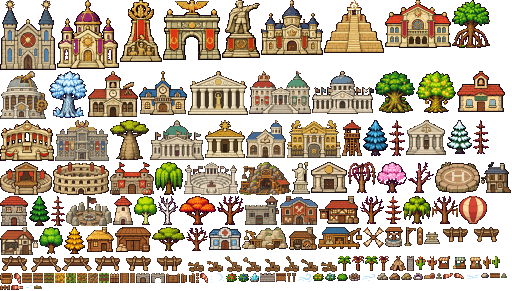
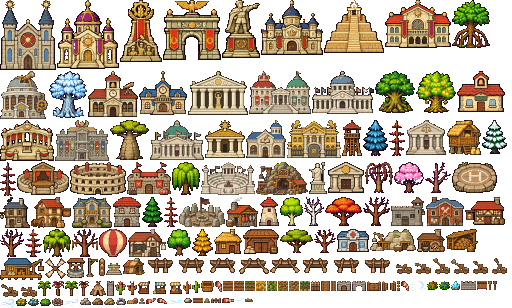
Partidos con nombres reales y siglas (también en los parlamentos), estaciones de 4 días (año de 16), sprites de la hoja 11

diff --git a/js/sociedad.js b/js/sociedad.js
@@ -1355,7 +1355,7 @@ function renderVillageCard(force){
   } else if (cardTab === 'politica') {
     const vr = n.voteRes;
     body = `<div>${govCard(g)}</div>
-      ${n.parties ? `<h4>Partidos</h4><div class="parties">${n.parties.map((q, k) => { const pct = vr && vr[k] != null ? vr[k] : null; return `<div class="party${n.ruling === k ? ' on' : ''}">${logoImg(q, 30)}<div class="pi"><b style="color:${q.col}">${esc(q.name)}${n.ruling === k ? ' <span class="gold">★ gobierna</span>' : ''}</b><span class="muted">${sideTxt(q)} · propone: ${q.laws.map(l => LAW_TXT[l]).join(', ')}</span>${pct != null ? `<span class="pv">${bar(pct / 100, q.col, 150)} ${pct} %</span>` : ''}</div></div>`; }).join('')}</div>` : '<h4>Partidos</h4><div>Aún no tienen partidos</div>'}
+      ${n.parties ? `<h4>Partidos</h4><div class="parties">${n.parties.map((q, k) => { const pct = vr && vr[k] != null ? vr[k] : null; return `<div class="party${n.ruling === k ? ' on' : ''}">${logoImg(q, 30)}<div class="pi"><b style="color:${q.col}">${esc(q.name)}</b> <span class="muted">(${esc(q.abbr || siglas(q.name))})</span><b>${n.ruling === k ? ' <span class="gold">★ gobierna</span>' : ''}</b><span class="muted">${sideTxt(q)} · propone: ${q.laws.map(l => LAW_TXT[l]).join(', ')}</span>${pct != null ? `<span class="pv">${bar(pct / 100, q.col, 150)} ${pct} %</span>` : ''}</div></div>`; }).join('')}</div>` : '<h4>Partidos</h4><div>Aún no tienen partidos</div>'}
       <h4>Leyes</h4><div class="laws">${lawsOf(g).map(l => `<div><b>${LAW_TXT[l]}</b><span class="muted">${LAW_DESC[l] || ''}</span></div>`).join('') || '<div class="muted">Sin leyes propias todavía</div>'}</div>
       ${(nationOf(g).lawHist || []).length ? `<h4>Historia de las leyes</h4><ul class="log">${nationOf(g).lawHist.slice().reverse().map(e => `<li class="pol"><span class="d">día ${e.d}</span>${esc(e.txt.replace(`En ${nationOf(g).name} `, ''))}</li>`).join('')}</ul>` : ''}
       ${colonyCard(g)}${justiceCard(g)}${pressCard(g)}${scienceCard(g)}${councilCard(g)}${spyCard(g)}${cultureCard(g)}
@@ -1975,10 +1975,22 @@ function warCard(g){
 // ---- Política: partidos inventados en cada sitio, de izquierdas a derechas, con sus leyes; cada cierto tiempo se
 // reúnen en la plaza y votan; el partido que gana pone al líder y sus leyes cambian cómo vive el pueblo y cómo trata
 // a los demás ----
-const PARTY_A = ['Partido', 'Unión', 'Frente', 'Movimiento', 'Liga', 'Alianza', 'Consejo', 'Hermandad', 'Asamblea'];
-const PARTY_B = { izq:['Socialista', 'Socialista del Trabajo', 'del Pueblo', 'de la Hoguera Común', 'de los Pastores', 'del Pan para Todos', 'Popular', 'de los Jornaleros', 'del Reparto'],
-  centro:['del Arado', 'del Río', 'de la Concordia', 'de las Cosechas', 'del Camino', 'Verde', 'de la Fe'],
-  der:['del Comercio', 'de la Espada', 'Libre', 'de los Linajes', 'del Orden', 'de la Corona de Piedra', 'de los Mercaderes'] };
+// Nombres de partido como los de la vida real, con sus siglas ({N}: el pueblo; {L}: la lengua de una minoría)
+const PARTY_NAMES = {
+  izq:['Partido Socialista de {N}', 'Partido Comunista de {N}', 'Partido Socialista Obrero', 'Izquierda Unida', 'Frente Popular', 'Partido de los Trabajadores', 'Unión de la Izquierda', 'Alianza Socialista', 'Movimiento Obrero de {N}', 'Partido del Pueblo Trabajador', 'Izquierda Republicana', 'Partido Comunista Revolucionario', 'Hermandad del Pan para Todos', 'Partido de la Hoguera Común'],
+  centro:['Partido Demócrata', 'Unión de Centro Democrático', 'Ciudadanos de {N}', 'Coalición Cívica', 'Centro Democrático y Social', 'Movimiento Ciudadano', 'Partido Moderado', 'Unión Progresista', 'Agrupación Independiente de {N}', 'Partido de la Concordia', 'Partido del Arado y el Río'],
+  der:['Partido Conservador', 'Partido Popular de {N}', 'Unión Nacional', 'Frente Nacional', 'Alianza Patriótica', 'Acción Nacional', 'Liga Conservadora', 'Partido de la Tradición', 'Partido de la Fe y el Orden', 'Movimiento Patriótico de {N}', 'Partido Agrario', 'Unión de los Mercaderes', 'Partido de la Corona de Piedra'],
+  verde:['Partido Verde', 'Alianza Ecologista', 'Movimiento Verde de {N}', 'Verdes Unidos', 'Partido Ecologista de {N}', 'Coalición por los Bosques'],
+  liberal:['Partido Liberal', 'Unión Liberal', 'Liberales de {N}', 'Partido Liberal Demócrata', 'Alianza Liberal', 'Partido Liberal Progresista'],
+  region:['Partido Regionalista {L}', 'Bloque {L}', 'Unión del Pueblo {L}', 'Coalición {L}', 'Partido Nacionalista {L}', 'Convergencia {L}', 'Frente {L}'],
+};
+const SIGLA_SKIP = new Set(['de', 'del', 'la', 'las', 'los', 'el', 'y', 'por']);
+const siglas = name => name.split(/\s+/).filter(w => w && !SIGLA_SKIP.has(w.toLowerCase())).map(w => w[0].toUpperCase()).join('');
+function partyName(kind, g, used, L){
+  const pool = PARTY_NAMES[kind].map(t => t.replace('{N}', g.name).replace('{L}', L || g.name)).filter(x => !used.has(x));
+  const name = pool[Math.floor(Math.random() * pool.length)] || `Partido de ${g.name}`; used.add(name);
+  return { name, abbr:siglas(name) };
+}
 const LAW_TXT = { aranceles:'aranceles', autonomia:'autonomía de las provincias', pensiones:'pensiones', fortificacion:'fortificación', derecho_huelga:'derecho a huelga', prohibir_huelgas:'prohibición de huelgas', lengua_unica:'una sola lengua', plurilinguismo:'todas las lenguas', reforma_lengua:'reforma de la lengua', pureza_lengua:'pureza de la lengua', reparto:'reparto de comida', obras:'obras públicas', paz:'paz con los vecinos', comercio:'comercio libre', ejercito:'ejército', expansion:'expansión', fe:'fe oficial', estatal:'economía estatal', censura:'censura',
   jornada_corta:'jornada corta', jornada_larga:'jornada larga', sanidad:'sanidad pública', educacion:'escuelas', impuestos_altos:'impuestos altos', impuestos_bajos:'impuestos bajos',
   bosques:'protección de los bosques', orden:'mano dura', natalidad:'más hijos', laicidad:'laicidad', salario_minimo:'salario mínimo', fronteras_abiertas:'fronteras abiertas', fronteras_cerradas:'fronteras cerradas', cuarentena:'cuarentena', vivienda_publica:'vivienda pública', mercado_vivienda:'libre mercado de la vivienda', tope_alquiler:'tope a los alquileres', libertad_religiosa:'libertad de culto', persecucion_religiosa:'persecución religiosa', derechos_humanos:'derechos humanos', segregacion:'segregación racial', matrimonio_igualitario:'matrimonio igualitario', persecucion:'persecución de homosexuales' };
@@ -2003,20 +2015,20 @@ function partyProgram(ideo, n = 3 + (Math.random() < .5 ? 1 : 0), keep = []){
 }
 // En los parlamentos hay más partidos: verdes, liberales y, donde se hablan varias lenguas, uno regionalista
 function moreParties(g){
-  const ps = g.parties ||= [], has = re => ps.some(p => re.test(p.name));
-  if (!has(/Verde/)) ps.push({ name:'Partido Verde', ideo:-.3, laws:partyProgram(-.3, 3, ['bosques']), col:'#5aa84a' });
-  if (!has(/Liberal/)) ps.push({ name:'Partido Liberal', ideo:.2, laws:partyProgram(.2, 3, ['comercio']), col:'#e8c040' });
-  const langs = new Set(villages.filter(o => popOf(o) && nationOf(o) === g).map(o => o.lang).filter(l => l != null));
-  if (langs.size > 1 && !has(/Regionalista/)) ps.push({ name:'Partido Regionalista', ideo:-.05, laws:partyProgram(-.05, 3, ['plurilinguismo']), col:'#8a5ac8' });
+  const ps = g.parties ||= [], has = k => ps.some(p => p.kind === k || (k === 'verde' && /Verde|Ecolog/.test(p.name)) || (k === 'liberal' && /Liberal/.test(p.name)) || (k === 'region' && /Regional/.test(p.name))), used = new Set(villages.flatMap(o => (o.parties || []).map(p => p.name)));
+  if (!has('verde')) ps.push({ ...partyName('verde', g, used), kind:'verde', ideo:-.3, laws:partyProgram(-.3, 3, ['bosques']), col:'#5aa84a' });
+  if (!has('liberal')) ps.push({ ...partyName('liberal', g, used), kind:'liberal', ideo:.2, laws:partyProgram(.2, 3, ['comercio']), col:'#e8c040' });
+  const langs = [...new Set(villages.filter(o => popOf(o) && nationOf(o) === g).map(o => o.lang).filter(l => l != null && l !== g.lang))];
+  if (langs.length && !has('region')) { const L = langList()[langs[0]]; ps.push({ ...partyName('region', g, used, L ? capFirst(L.adj) : null), kind:'region', ideo:-.05, laws:partyProgram(-.05, 3, ['plurilinguismo']), col:'#8a5ac8' }); }
   while (ps.length > 6) ps.splice(ps.findIndex((p, k) => k !== g.ruling), 1);
 }
 function makeParties(g){
   const parties = [], used = new Set();
   for (const side of Math.random() < .5 ? ['izq', 'centro', 'der'] : ['izq', 'der']) {
-    let name; do name = `${PARTY_A[Math.floor(Math.random() * PARTY_A.length)]} ${PARTY_B[side][Math.floor(Math.random() * PARTY_B[side].length)]}`; while (used.has(name)); used.add(name);
+    const { name, abbr } = partyName(side, g, used); // nombres como los de verdad, con siglas
     const ideo = side === 'izq' ? -.4 - Math.random() * .45 : side === 'der' ? .4 + Math.random() * .45 : (Math.random() - .5) * .3;
     const laws = partyProgram(ideo, undefined, name.includes('Fe') ? ['fe'] : []);
-    parties.push({ name, ideo, laws, col:side === 'izq' ? '#d8483a' : side === 'der' ? '#3a6ab8' : '#e8b848' });
+    parties.push({ name, abbr, kind:side, ideo, laws, col:side === 'izq' ? '#d8483a' : side === 'der' ? '#3a6ab8' : '#e8b848' });
   }
   g.parties = parties;
   if (!g.regime) { // la primera forma de gobierno depende de cómo les va: quien manda, cuánto temen a sus dioses, si hay peligro...
@@ -2034,7 +2046,7 @@ function makeParties(g){
   if (!g.flag) { g.flag = makeFlag(g); g.flagUrl = flagDataUrl(g.flag); notify(`${g.name} se da a sí misma una bandera`, { x:g.fx * T, y:g.fy * T }); }
   notify(`En ${g.name} nacen los partidos: ${parties.map(p => p.name).join(', ')}`, { x:g.fx * T, y:g.fy * T });
 }
-const artP = p => /^(Unión|Liga|Alianza|Asamblea|Hermandad)/.test(p.name) ? 'la' : 'el'; // «gana la Liga…», «gana el Frente…»
+const artP = p => /^(Ciudadanos|Verdes|Liberales)/.test(p.name) ? 'los' : /^(Unión|Liga|Alianza|Asamblea|Hermandad|Izquierda|Coalición|Acción|Agrupación|Convergencia)/.test(p.name) ? 'la' : 'el'; // «gana la Liga…», «gana el Frente…»
 const lawsOf = g => { const n = nationOf(g); if (REGIME_LAWS[n.regime]) return REGIME_LAWS[n.regime]; let L = n.ruling != null && n.parties && n.parties[n.ruling] ? n.parties[n.ruling].laws : [];
   const C = n.coalition != null && n.parties && n.parties[n.coalition]; if (C) L = [...L, ...C.laws.filter(l => !L.includes(l) && !LAW_CLASH.some(([a, b]) => (l === a && L.includes(b)) || (l === b && L.includes(a))))];
   return n.regime === 'socialismo' ? [...new Set(['reparto', 'estatal', 'vivienda_publica', ...L.filter(l => l !== 'mercado_vivienda')])] : L; };

diff --git a/js/arte_mapa.js b/js/arte_mapa.js
@@ -1,2 +1,2 @@
 // Forja de Mundos · Mapa del atlas de arte (generado: no editar a mano). clave: [x, y, ancho, alto, ancla x, llamas?]
-const ART_MAP = {"house:hut":[86,227,28,25,14],"house:piedra":[0,196,28,30,14],"well:pozo":[385,227,18,20,9],"store:almacen":[115,227,36,25,18],"tower:torre":[342,120,20,36,10],"hall:ayuntamiento":[139,71,48,44,24],"market:mercado":[438,256,44,13,22],"bank:banco":[311,162,36,31,18],"hospital:hospital":[209,227,32,23,16],"school:escuela":[457,71,48,41,24],"tavern:taberna":[319,196,40,28,20],"theater:teatro":[0,162,52,33,26],"coliseum:coliseo":[53,162,56,33,28],"barracks:cuartel":[110,162,44,33,22],"tradehall:lonja":[318,227,44,22,22],"quarry:cantera":[242,227,46,23,23],"temple:templo":[205,120,40,38,20],"obelisk:monumento":[292,162,18,32,9],"cathedral:catedral":[0,0,56,70,28],"cathedral:panteon":[188,71,60,44,30],"wonder:republica":[0,120,54,41,27],"wonder:monarquia":[261,0,62,55,31],"wonder:dictadura":[222,0,38,58,19],"wonder:comunismo":[120,0,42,62,21],"wonder:fascismo":[163,0,58,60,29],"wonder:socialismo":[385,0,66,48,33],"wonder:teocracia":[57,0,62,69,31],"altar:altar":[424,227,16,17,8,[5,0,6,6]],"cathedral:zigurat":[324,0,60,53,30,[24,1,12,13]],"forge:herreria":[289,227,28,23,14,[14,17,9,3]],"mill:molino":[113,196,20,29,10],"mill:aspas":[363,227,21,21,10],"oak:forest":[39,227,24,27,12],"oak:forest:bare":[360,196,24,28,12],"pine:pine":[29,196,21,30,10],"pine:pine:bare":[51,196,14,30,7],"pine:snow":[447,120,25,34,12],"pine:snow:bare":[473,120,16,34,8],"acacia:dry":[152,227,33,24,16],"acacia:dry:bare":[186,227,22,24,11],"birch:birch":[134,196,23,29,11],"birch:birch:bare":[158,196,20,29,10],"pine:blue":[363,120,25,36,12],"pine:blue:bare":[389,120,16,36,8],"willow:swamp":[155,162,28,33,14],"willow:swamp:bare":[348,162,28,31,14],"palm:palm":[338,256,13,15,6],"palm:palm:bare":[352,256,12,15,6],"palm:coco":[365,256,13,15,6],"palm:coco:bare":[379,256,10,15,5],"oak:cherry":[377,162,30,31,15],"oak:cherry:bare":[408,162,26,31,13],"pine:autumn":[64,227,21,27,10],"pine:autumn:bare":[385,196,17,28,8],"acacia:sunset":[179,196,37,29,18],"acacia:sunset:bare":[217,196,27,29,13],"willow:moss":[403,196,28,28,14],"willow:moss:bare":[432,196,26,28,13],"cactus:cactus":[492,256,8,12,4],"cactus:cactus:bare":[483,256,8,13,4],"cactus:bloom":[415,256,11,14,5],"cactus:bloom:bare":[427,256,10,14,5],"ancient:elder":[375,71,40,42,20],"ancient:frost":[49,71,38,47,19],"ancient:baobab":[110,120,39,40,19],"ancient:mangrove":[452,0,38,48,19],"ancient:life":[416,71,40,42,20],"bush:red":[226,273,11,9,5],"bush:blueb":[238,273,11,9,5],"bush:goldb":[313,273,11,8,5],"bush:moon":[325,273,11,8,5],"bush:empty":[337,273,11,8,5],"rock:stone":[481,273,8,5,4],"big:stone":[377,273,11,7,5],"ore:iron":[389,273,11,7,5],"ore:gold":[401,273,11,7,5],"gem:amethyst":[413,273,10,7,5],"gem:mana":[250,273,9,9,4],"fire:camp":[349,273,11,8,5],"camp:tienda":[390,256,16,15,8],"camp:estera":[424,273,11,6,5],"boat:0":[441,227,30,16,15],"boat:1":[472,227,30,16,15],"boat:2":[0,256,30,16,15],"boat:3":[31,256,30,16,15],"boat:4":[62,256,30,16,15],"boat:5":[93,256,30,16,15],"boat:6":[124,256,30,16,15],"boat:7":[155,256,30,16,15],"catapult:0":[186,256,18,16,9],"catapult:1":[205,256,18,16,9],"catapult:2":[224,256,18,16,9],"catapult:3":[243,256,18,16,9],"catapult:4":[262,256,18,16,9],"catapult:5":[281,256,18,16,9],"catapult:6":[300,256,18,16,9],"catapult:7":[319,256,18,16,9],"tex:arada":[22,273,10,10,5],"tex:sembrado":[33,273,10,10,5],"tex:brotes":[44,273,10,10,5],"tex:trigo":[55,273,10,10,5],"tex:maiz":[66,273,10,10,5],"tex:mijo":[77,273,10,10,5],"tex:muerta":[88,273,10,10,5],"tex:huerta":[99,273,10,10,5],"tex:empalizada_h":[110,273,9,10,4],"tex:empalizada_v":[417,227,6,18,3],"tex:piedra_h":[260,273,15,9,7],"tex:piedra_v":[407,256,7,15,3],"tex:puente_h":[276,273,10,9,5],"tex:puente_v":[120,273,9,10,4],"tex:puente_h5":[490,273,10,5,5],"tex:puente_v5":[130,273,5,10,2],"gate:piedra":[136,273,14,10,7],"gate:piedra_abierta":[151,273,14,10,7],"gate:madera":[166,273,14,10,7],"gate:madera_abierta":[181,273,14,10,7],"tumba:lapida":[501,273,6,5,3],"tumba:flores":[34,285,8,4,4],"tumba:estela":[436,273,6,6,3],"tex:valla_h":[0,285,10,5,5],"tex:valla_v":[196,273,3,10,1],"antorcha:encendida":[287,273,4,9,2],"antorcha:apagada":[292,273,4,9,2],"balloon:globo":[459,196,28,28,14],"balloon:cesta":[0,273,13,11,6],"aero:pista":[435,162,45,31,22],"aero:palo":[404,227,12,19,2],"sock:0":[11,285,12,5,0],"sock:1":[443,273,10,6,0],"sock:2":[454,273,10,6,0],"sock:3":[200,273,8,10,0],"sock:4":[14,273,7,11,0],"wind:0":[24,285,9,5,4],"wind:1":[465,273,15,6,7],"wind:2":[361,273,15,8,7],"wind:3":[297,273,15,9,7],"wind:4":[209,273,16,10,8],"court:tribunal":[406,120,40,35,20],"jail:carcel":[245,196,34,29,17],"press:imprenta":[0,227,38,28,19],"union:sindicato":[280,196,38,29,19],"parliament:parlamento":[150,120,54,40,27],"academy:academia":[246,120,40,38,20],"wonder:democracia":[184,162,54,33,27],"wonder:partitocracia":[55,120,54,41,27],"wonder:monarquia_parlamentaria":[249,71,62,43,31],"wonder:oligarquia":[287,120,54,38,27],"wonder:tecnocracia":[0,71,48,48,24],"wonder:anarquia":[66,196,46,30,23],"mine:mina":[239,162,52,33,26],"university:universidad":[88,71,50,46,25],"council:consejo":[312,71,62,43,31],"spy:espias":[481,162,30,31,15]};
+const ART_MAP = {"house:hut":[214,229,28,25,14],"house:piedra":[113,197,28,30,14],"well:pozo":[67,258,18,20,9],"store:almacen":[243,229,36,25,18],"tower:torre":[342,120,20,36,10],"hall:ayuntamiento":[139,71,48,44,24],"market:mercado":[138,281,44,13,22],"bank:banco":[328,162,36,31,18],"hospital:hospital":[337,229,32,23,16],"school:escuela":[457,71,48,41,24],"tavern:taberna":[465,197,40,28,20],"theater:teatro":[17,162,52,33,26],"coliseum:coliseo":[70,162,56,33,28],"barracks:cuartel":[127,162,44,33,22],"tradehall:lonja":[0,258,44,22,22],"quarry:cantera":[370,229,46,23,23],"temple:templo":[205,120,40,38,20],"obelisk:monumento":[309,162,18,32,9],"cathedral:catedral":[0,0,56,70,28],"cathedral:panteon":[188,71,60,44,30],"wonder:republica":[0,120,54,41,27],"wonder:monarquia":[261,0,62,55,31],"wonder:dictadura":[222,0,38,58,19],"wonder:comunismo":[120,0,42,62,21],"wonder:fascismo":[163,0,58,60,29],"wonder:socialismo":[385,0,66,48,33],"wonder:teocracia":[57,0,62,69,31],"altar:altar":[106,258,16,17,8,[5,0,6,6]],"cathedral:zigurat":[324,0,60,53,30,[24,1,12,13]],"forge:herreria":[417,229,28,23,14,[14,17,9,3]],"mill:molino":[259,197,20,29,10],"mill:aspas":[45,258,21,21,10],"oak:forest":[167,229,24,27,12],"oak:forest:bare":[0,229,24,28,12],"pine:pine":[142,197,21,30,10],"pine:pine:bare":[164,197,14,30,7],"pine:snow":[482,120,25,34,12],"pine:snow:bare":[0,162,16,34,8],"acacia:dry":[280,229,33,24,16],"acacia:dry:bare":[314,229,22,24,11],"birch:birch":[280,197,23,29,11],"birch:birch:bare":[304,197,20,29,10],"pine:blue":[363,120,25,36,12],"pine:blue:bare":[389,120,16,36,8],"willow:swamp":[172,162,28,33,14],"willow:swamp:bare":[365,162,28,31,14],"palm:palm":[38,281,13,15,6],"palm:palm:bare":[52,281,12,15,6],"palm:coco":[65,281,13,15,6],"palm:coco:bare":[79,281,10,15,5],"oak:cherry":[394,162,30,31,15],"oak:cherry:bare":[425,162,26,31,13],"pine:autumn":[192,229,21,27,10],"pine:autumn:bare":[25,229,17,28,8],"acacia:sunset":[325,197,37,29,18],"acacia:sunset:bare":[363,197,27,29,13],"willow:moss":[43,229,28,28,14],"willow:moss:bare":[72,229,26,28,13],"cactus:cactus":[192,281,8,12,4],"cactus:cactus:bare":[183,281,8,13,4],"cactus:bloom":[115,281,11,14,5],"cactus:bloom:bare":[127,281,10,14,5],"ancient:elder":[375,71,40,42,20],"ancient:frost":[49,71,38,47,19],"ancient:baobab":[110,120,39,40,19],"ancient:mangrove":[452,0,38,48,19],"ancient:life":[416,71,40,42,20],"bush:red":[427,281,11,9,5],"bush:blueb":[439,281,11,9,5],"bush:goldb":[16,298,11,8,5],"bush:moon":[28,298,11,8,5],"bush:empty":[40,298,11,8,5],"rock:stone":[184,298,8,5,4],"big:stone":[80,298,11,7,5],"ore:iron":[92,298,11,7,5],"ore:gold":[104,298,11,7,5],"gem:amethyst":[116,298,10,7,5],"gem:mana":[451,281,9,9,4],"fire:camp":[52,298,11,8,5],"camp:tienda":[90,281,16,15,8],"camp:estera":[127,298,11,6,5],"boat:0":[146,258,30,16,15],"boat:1":[177,258,30,16,15],"boat:2":[208,258,30,16,15],"boat:3":[239,258,30,16,15],"boat:4":[270,258,30,16,15],"boat:5":[301,258,30,16,15],"boat:6":[332,258,30,16,15],"boat:7":[363,258,30,16,15],"catapult:0":[394,258,18,16,9],"catapult:1":[413,258,18,16,9],"catapult:2":[432,258,18,16,9],"catapult:3":[451,258,18,16,9],"catapult:4":[470,258,18,16,9],"catapult:5":[489,258,18,16,9],"catapult:6":[0,281,18,16,9],"catapult:7":[19,281,18,16,9],"tex:arada":[223,281,10,10,5],"tex:sembrado":[234,281,10,10,5],"tex:brotes":[245,281,10,10,5],"tex:trigo":[256,281,10,10,5],"tex:maiz":[267,281,10,10,5],"tex:mijo":[278,281,10,10,5],"tex:muerta":[289,281,10,10,5],"tex:huerta":[300,281,10,10,5],"tex:empalizada_h":[311,281,9,10,4],"tex:empalizada_v":[99,258,6,18,3],"tex:piedra_h":[461,281,15,9,7],"tex:piedra_v":[107,281,7,15,3],"tex:puente_h":[477,281,10,9,5],"tex:puente_v":[321,281,9,10,4],"tex:puente_h5":[193,298,10,5,5],"tex:puente_v5":[331,281,5,10,2],"gate:piedra":[337,281,14,10,7],"gate:piedra_abierta":[352,281,14,10,7],"gate:madera":[367,281,14,10,7],"gate:madera_abierta":[382,281,14,10,7],"tumba:lapida":[204,298,6,5,3],"tumba:flores":[245,298,8,4,4],"tumba:estela":[139,298,6,6,3],"tex:valla_h":[211,298,10,5,5],"tex:valla_v":[397,281,3,10,1],"antorcha:encendida":[488,281,4,9,2],"antorcha:apagada":[493,281,4,9,2],"balloon:globo":[99,229,28,28,14],"balloon:cesta":[201,281,13,11,6],"aero:pista":[452,162,45,31,22],"aero:palo":[86,258,12,19,2],"sock:0":[222,298,12,5,0],"sock:1":[146,298,10,6,0],"sock:2":[157,298,10,6,0],"sock:3":[401,281,8,10,0],"sock:4":[215,281,7,11,0],"wind:0":[235,298,9,5,4],"wind:1":[168,298,15,6,7],"wind:2":[64,298,15,8,7],"wind:3":[0,298,15,9,7],"wind:4":[410,281,16,10,8],"court:tribunal":[406,120,40,35,20],"jail:carcel":[391,197,34,29,17],"press:imprenta":[128,229,38,28,19],"union:sindicato":[426,197,38,29,19],"parliament:parlamento":[150,120,54,40,27],"academy:academia":[246,120,40,38,20],"wonder:democracia":[201,162,54,33,27],"wonder:partitocracia":[55,120,54,41,27],"wonder:monarquia_parlamentaria":[249,71,62,43,31],"wonder:oligarquia":[287,120,54,38,27],"wonder:tecnocracia":[0,71,48,48,24],"wonder:anarquia":[179,197,46,30,23],"mine:mina":[256,162,52,33,26],"university:universidad":[88,71,50,46,25],"council:consejo":[312,71,62,43,31],"spy:espias":[0,197,30,31,15],"granary:granero":[447,120,34,35,17],"smoke:ahumadero":[226,197,32,30,16],"woodshed:lenera":[446,229,32,23,16],"post:postas":[31,197,40,31,20],"house:mansion":[72,197,40,31,20],"house:chabola":[123,258,22,17,11]};

diff --git a/index.html b/index.html
@@ -6,7 +6,7 @@
 <meta name="claude:viewport-fit-sides" content="cover">
 <link rel="preconnect" href="https://fonts.googleapis.com">
 <link rel="stylesheet" href="https://fonts.googleapis.com/css2?family=Pixelify+Sans:wght@400;600&family=Nunito+Sans:wght@400;600;700&display=swap">
-<link rel="stylesheet" href="css/estilo.css?v=202611231548">
+<link rel="stylesheet" href="css/estilo.css?v=202611231554">
 
 <div class="app">
   <section class="stage" id="stage">
@@ -162,52 +162,52 @@
 </div>
 
 <!-- El juego, en el orden en que se carga -->
-<script src="js/nucleo.js?v=202611231548"></script>
-<script src="js/mundo.js?v=202611231548"></script>
-<script src="js/vista.js?v=202611231548"></script>
-<script src="js/clima.js?v=202611231548"></script>
-<script src="js/fauna.js?v=202611231548"></script>
-<script src="js/desastres.js?v=202611231548"></script>
-<script src="js/mapas.js?v=202611231548"></script>
-<script src="js/humanos.js?v=202611231548"></script>
-<script src="js/partidas.js?v=202611231548"></script>
-<script src="js/vida.js?v=202611231548"></script>
-<script src="js/sociedad.js?v=202611231548"></script>
-<script src="js/impuestos.js?v=202611231548"></script>
-<script src="js/presupuestos.js?v=202611231548"></script>
-<script src="js/bolsa.js?v=202611231548"></script>
-<script src="js/vivienda.js?v=202611231548"></script>
-<script src="js/cartografia.js?v=202611231548"></script>
-<script src="js/convivencia.js?v=202611231548"></script>
-<script src="js/credos.js?v=202611231548"></script>
-<script src="js/tratados.js?v=202611231548"></script>
-<script src="js/globos.js?v=202611231548"></script>
-<script src="js/idiomas.js?v=202611231548"></script>
-<script src="js/regimenes.js?v=202611231548"></script>
-<script src="js/instituciones.js?v=202611231548"></script>
-<script src="js/monedas.js?v=202611231548"></script>
-<script src="js/minas.js?v=202611231548"></script>
-<script src="js/justicia.js?v=202611231548"></script>
-<script src="js/sindicatos.js?v=202611231548"></script>
-<script src="js/prensa.js?v=202611231548"></script>
-<script src="js/ciencia.js?v=202611231548"></script>
-<script src="js/consejo.js?v=202611231548"></script>
-<script src="js/espionaje.js?v=202611231548"></script>
-<script src="js/comercio.js?v=202611231548"></script>
-<script src="js/piratas.js?v=202611231548"></script>
-<script src="js/colonias.js?v=202611231548"></script>
-<script src="js/cultura.js?v=202611231548"></script>
-<script src="js/anexiones.js?v=202611231548"></script>
-<script src="js/lluvia.js?v=202611231548"></script>
-<script src="js/estaciones.js?v=202611231548"></script>
-<script src="js/bandidos.js?v=202611231548"></script>
-<script src="js/riqueza.js?v=202611231548"></script>
-<script src="js/noticias.js?v=202611231548"></script>
-<script src="js/defensa.js?v=202611231548"></script>
-<script src="js/trabajo.js?v=202611231548"></script>
-<script src="js/arte_mapa.js?v=202611231548"></script>
-<script src="js/arte.js?v=202611231548"></script>
-<script src="js/vegetacion.js?v=202611231548"></script>
-<script src="js/aldeanos.js?v=202611231548"></script>
-<script src="js/sonido.js?v=202611231548"></script>
-<script src="js/interfaz.js?v=202611231548"></script>
+<script src="js/nucleo.js?v=202611231554"></script>
+<script src="js/mundo.js?v=202611231554"></script>
+<script src="js/vista.js?v=202611231554"></script>
+<script src="js/clima.js?v=202611231554"></script>
+<script src="js/fauna.js?v=202611231554"></script>
+<script src="js/desastres.js?v=202611231554"></script>
+<script src="js/mapas.js?v=202611231554"></script>
+<script src="js/humanos.js?v=202611231554"></script>
+<script src="js/partidas.js?v=202611231554"></script>
+<script src="js/vida.js?v=202611231554"></script>
+<script src="js/sociedad.js?v=202611231554"></script>
+<script src="js/impuestos.js?v=202611231554"></script>
+<script src="js/presupuestos.js?v=202611231554"></script>
+<script src="js/bolsa.js?v=202611231554"></script>
+<script src="js/vivienda.js?v=202611231554"></script>
+<script src="js/cartografia.js?v=202611231554"></script>
+<script src="js/convivencia.js?v=202611231554"></script>
+<script src="js/credos.js?v=202611231554"></script>
+<script src="js/tratados.js?v=202611231554"></script>
+<script src="js/globos.js?v=202611231554"></script>
+<script src="js/idiomas.js?v=202611231554"></script>
+<script src="js/regimenes.js?v=202611231554"></script>
+<script src="js/instituciones.js?v=202611231554"></script>
+<script src="js/monedas.js?v=202611231554"></script>
+<script src="js/minas.js?v=202611231554"></script>
+<script src="js/justicia.js?v=202611231554"></script>
+<script src="js/sindicatos.js?v=202611231554"></script>
+<script src="js/prensa.js?v=202611231554"></script>
+<script src="js/ciencia.js?v=202611231554"></script>
+<script src="js/consejo.js?v=202611231554"></script>
+<script src="js/espionaje.js?v=202611231554"></script>
+<script src="js/comercio.js?v=202611231554"></script>
+<script src="js/piratas.js?v=202611231554"></script>
+<script src="js/colonias.js?v=202611231554"></script>
+<script src="js/cultura.js?v=202611231554"></script>
+<script src="js/anexiones.js?v=202611231554"></script>
+<script src="js/lluvia.js?v=202611231554"></script>
+<script src="js/estaciones.js?v=202611231554"></script>
+<script src="js/bandidos.js?v=202611231554"></script>
+<script src="js/riqueza.js?v=202611231554"></script>
+<script src="js/noticias.js?v=202611231554"></script>
+<script src="js/defensa.js?v=202611231554"></script>
+<script src="js/trabajo.js?v=202611231554"></script>
+<script src="js/arte_mapa.js?v=202611231554"></script>
+<script src="js/arte.js?v=202611231554"></script>
+<script src="js/vegetacion.js?v=202611231554"></script>
+<script src="js/aldeanos.js?v=202611231554"></script>
+<script src="js/sonido.js?v=202611231554"></script>
+<script src="js/interfaz.js?v=202611231554"></script>

diff --git a/js/idiomas.js b/js/idiomas.js
@@ -200,7 +200,7 @@ function updateLanguages(dt){
     if (!kn.escritura && g.hall != null && people.length >= 8 && Math.random() < el * .004) learnWriting(g);
     villageLang(g);
     // Pueblo recién fundado: su nombre, en su lengua (y se corrige en la crónica si ya había salido con el provisional)
-    if (g.freshName) { g.freshName = false; const nn = placeName(g); if (nn) { const old = g.name; g.name = nn; for (const e of chronicle) if (e.text.includes(old)) e.text = e.text.split(old).join(nn); for (const e of g.log || []) e.txt = e.txt.split(old).join(nn); } }
+    if (g.freshName) { g.freshName = false; const nn = placeName(g); if (nn) { const old = g.name; g.name = nn; for (const e of chronicle) if (e.text.includes(old)) e.text = e.text.split(old).join(nn); for (const e of g.log || []) e.txt = e.txt.split(old).join(nn); for (const q of g.parties || []) { q.name = q.name.split(old).join(nn); q.abbr = siglas(q.name); } } }
     // La lengua del pueblo es la materna de la mayoría; quien vive allí la va aprendiendo
     const mix = new Map(); let common = 0;
     for (const v of people) {

diff --git a/js/clima.js b/js/clima.js
@@ -871,7 +871,7 @@ function drawQuakes(t){
 // ================= Estaciones del año =================
 // Cada estación dura un minuto (30 días de 2 s) y cambia el tiempo: más lluvia en primavera y otoño,
 // tormentas y huracanes al final del verano y en otoño, nieve y ventiscas en invierno
-const SEASON_LEN = 15 * 180; // 15 días de 3 minutos (la edad de la gente, los animales y los árboles va aparte, en YEAR)
+const SEASON_LEN = 4 * 180; // 4 días de 3 minutos: un año de 16 días (la edad de la gente, los animales y los árboles va aparte, en YEAR)
 // Día y noche: un día dura 3 minutos (a velocidad normal), aparte del ritmo de las estaciones; de noche
 // oscurece y la gente se va a dormir
 const DAY_LEN = 180;

diff --git a/js/arte.js b/js/arte.js
@@ -9,7 +9,7 @@ const ART = { img:null, ready:false, cache:new Map() };
   if (typeof ART_MAP === 'undefined') return;
   const im = new Image();
   im.onload = () => { ART.img = im; ART.ready = true; ART.cache.clear(); if (typeof world !== 'undefined' && world && typeof composeRegion === 'function') composeRegion(0, 0, W - 1, H - 1); };
-  im.src = 'arte/atlas.png?v=202611231548';
+  im.src = 'arte/atlas.png?v=202611231554';
 })();
 const ART_DECID = new Set(['oak:forest', 'birch:birch', 'willow:swamp', 'willow:moss', 'acacia:dry', 'acacia:sunset', 'oak:cherry', 'pine:autumn']);
 const ART_EVER = new Set(['pine:pine', 'pine:snow', 'pine:blue', 'ancient:elder', 'ancient:mangrove', 'ancient:life', 'ancient:baobab']);

diff --git a/js/trabajo.js b/js/trabajo.js
@@ -6,7 +6,7 @@
 // · Días libres a la semana (según la jornada) y festivos que recuerdan lo que les pasó; si no descansan, se quejan
 const WEEK = 7;
 const dayNum = () => Math.floor(yearT / DAY_LEN);
-const dayOfYear = () => Math.floor((yearT % (SEASON_LEN * 4)) / DAY_LEN); // 0..59
+const dayOfYear = () => Math.floor((yearT % (SEASON_LEN * 4)) / DAY_LEN); // 0..15
 const hasSchool = g => g && g.school != null && !!world.objs[g.school];
 const restDaysOf = g => clamp((hasLaw(g, 'jornada_corta') ? 2 : hasLaw(g, 'jornada_larga') ? 0 : 1) + (g.restBonus || 0), 0, 3);
 const isRestDay = g => { const n = restDaysOf(g); return n > 0 && dayNum() % WEEK >= WEEK - n; };

diff --git a/herramientas/atlas.py b/herramientas/atlas.py
@@ -199,9 +199,11 @@ if H10:
 # ---- Vida cotidiana (hoja 11, si ya está): granero, ahumadero, leñera, casa de postas, mansión y chabola ----
 H11 = next((n for n in ['11.png', 'hoja_11.png'] if os.path.exists(os.path.join(SRC, n))), None)
 if H11:
-    for key, pt, w in [('granary:granero', (256, 300), 34), ('smoke:ahumadero', (768, 300), 30), ('woodshed:lenera', (1280, 320), 32),
-                       ('post:postas', (256, 790), 38), ('house:mansion', (768, 790), 40), ('house:chabola', (1280, 820), 18)]:
-        add(key, shrink(cut(H11, [pt]), w))
+    for key, cell, w in [('granary:granero', (0, 0), 34), ('smoke:ahumadero', (1, 0), 32), ('woodshed:lenera', (2, 0), 32),
+                         ('post:postas', (0, 1), 40), ('house:mansion', (1, 1), 40), ('house:chabola', (2, 1), 22)]:
+        _, _, parts = sheet(H11); x0, y0 = cell[0] * 512, cell[1] * 512
+        pts = [((p['x0'] + p['x1']) // 2, (p['y0'] + p['y1']) // 2) for p in parts if x0 <= (p['x0'] + p['x1']) / 2 < x0 + 512 and y0 <= (p['y0'] + p['y1']) / 2 < y0 + 512 and p['area'] > 150]
+        add(key, shrink(cut(H11, pts), w)) # todas las piezas de su casilla (sacos, humo, el caballo), recortadas justas
 
 # ---- Atlas: en filas, con 1 píxel de separación ----
 keys = list(S); W = 512; x = y = rowh = 0; pos = {}

diff --git a/README.md b/README.md
@@ -16,10 +16,10 @@ También se puede abrir `index.html` directamente en el navegador (con la carpet
 - Convivencia: cada persona tiene su orientación (heterosexual, homosexual o bisexual) y forma pareja; los hijos nacen de parejas de hombre y mujer, y las del mismo sexo pueden adoptar donde hay matrimonio igualitario. Leyes de derechos humanos o segregación racial, de matrimonio igualitario o persecución, y de libertad de culto o persecución religiosa: cambian el ánimo, los sueldos, quién emigra o es desterrado, las protestas y las relaciones con los vecinos.
 - Migrantes con su propia fe: unos la viven en paz y se integran; otros predican, y si llegan a ser mayoría imponen su religión.
 - Oficios que se reparten según hace falta (maestro, bombero, curandero, cartógrafo, mercader…); escuelas con la ley de escuelas, donde los niños aprenden y de mayores cobran más.
-- Calendario: días libres a la semana según la jornada (y protestas si no los hay) y festivos que recuerdan lo que les pasó (la paz, la independencia, una victoria), con fiesta en la plaza y fuegos artificiales.
+- Calendario (estaciones de 4 días, año de 16): días libres a la semana según la jornada (y protestas si no los hay) y festivos que recuerdan lo que les pasó (la paz, la independencia, una victoria), con fiesta en la plaza y fuegos artificiales.
 - Los fieles de un dios del fuego, de las montañas o del inframundo con un volcán cerca arrojan sus ofrendas al cráter.
 - Tratados: pactos de no agresión (romperlos es traición), acuerdos comerciales, libre circulación, tratados de paz y tributos.
-- Partidos, elecciones, monarquías, dictaduras, comunismo y fascismo; manifestaciones y golpes de estado.
+- Partidos (con nombres como los de verdad y sus siglas: Partido Comunista de…, Izquierda Unida, Partido Popular de…, Unión de Centro Democrático, Frente Nacional, verdes, liberales y regionalistas), elecciones, monarquías, dictaduras, comunismo y fascismo; manifestaciones y golpes de estado.
 - Más regímenes: democracia parlamentaria (más partidos, entre ellos verdes, liberales y regionalistas donde hay varias lenguas, y gobiernos de coalición si nadie gana por mayoría), partitocracia (cuando siempre ganan los mismos: reparto de cargos y corrupción), monarquía parlamentaria (el rey sigue, gobierna el parlamento), oligarquía (los más ricos compran el gobierno), tecnocracia (un gobierno de expertos en plena crisis, hasta nuevas elecciones) y anarquía (tras linchar a quien mandaba, todo se decide en asambleas).
 - Monedas, bancos, inflación, bancarrotas y alianzas con moneda común. Cada moneda tiene nombre en la lengua de su pueblo y es de un tipo según lo que tienen a mano: conchas, barras de sal, cobre, plata, oro o billetes (van mejorando con la herrería, el oro, el papel y el banco); el oro aguanta los precios y los billetes los disparan.
 - Enfermedades y epidemias, curanderos, hospitales y cuarentenas; migraciones y refugiados.
